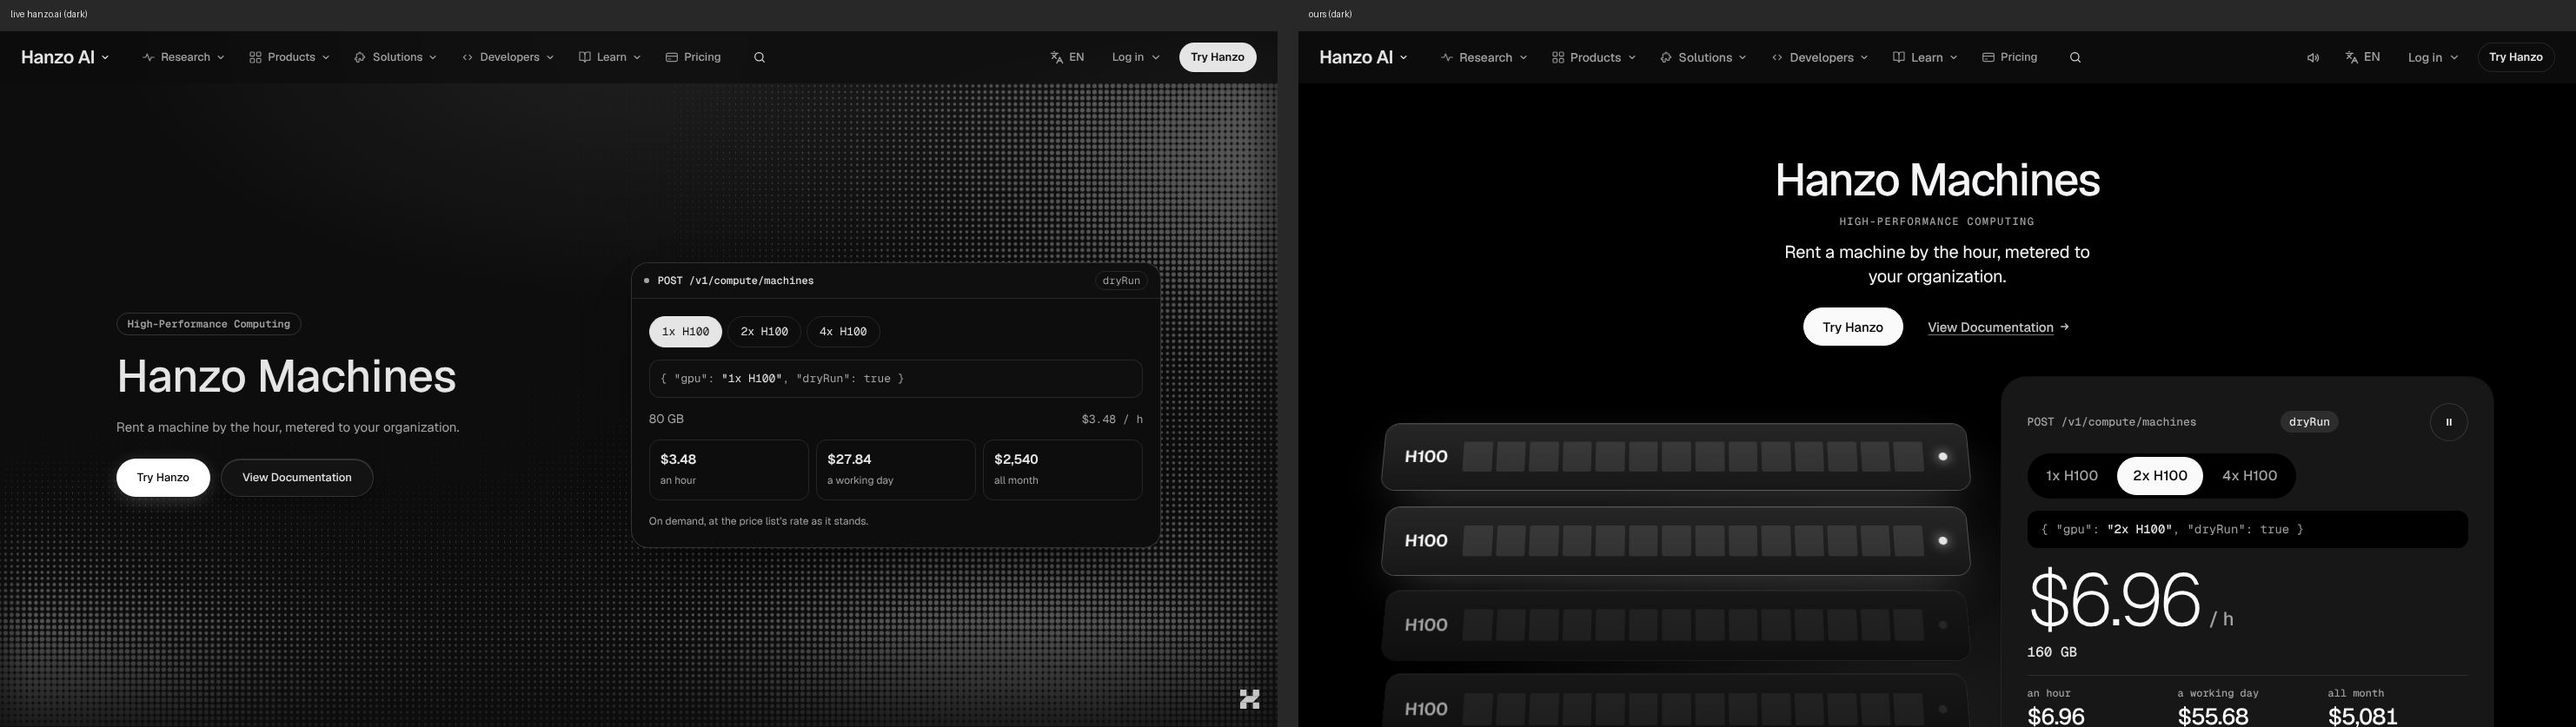
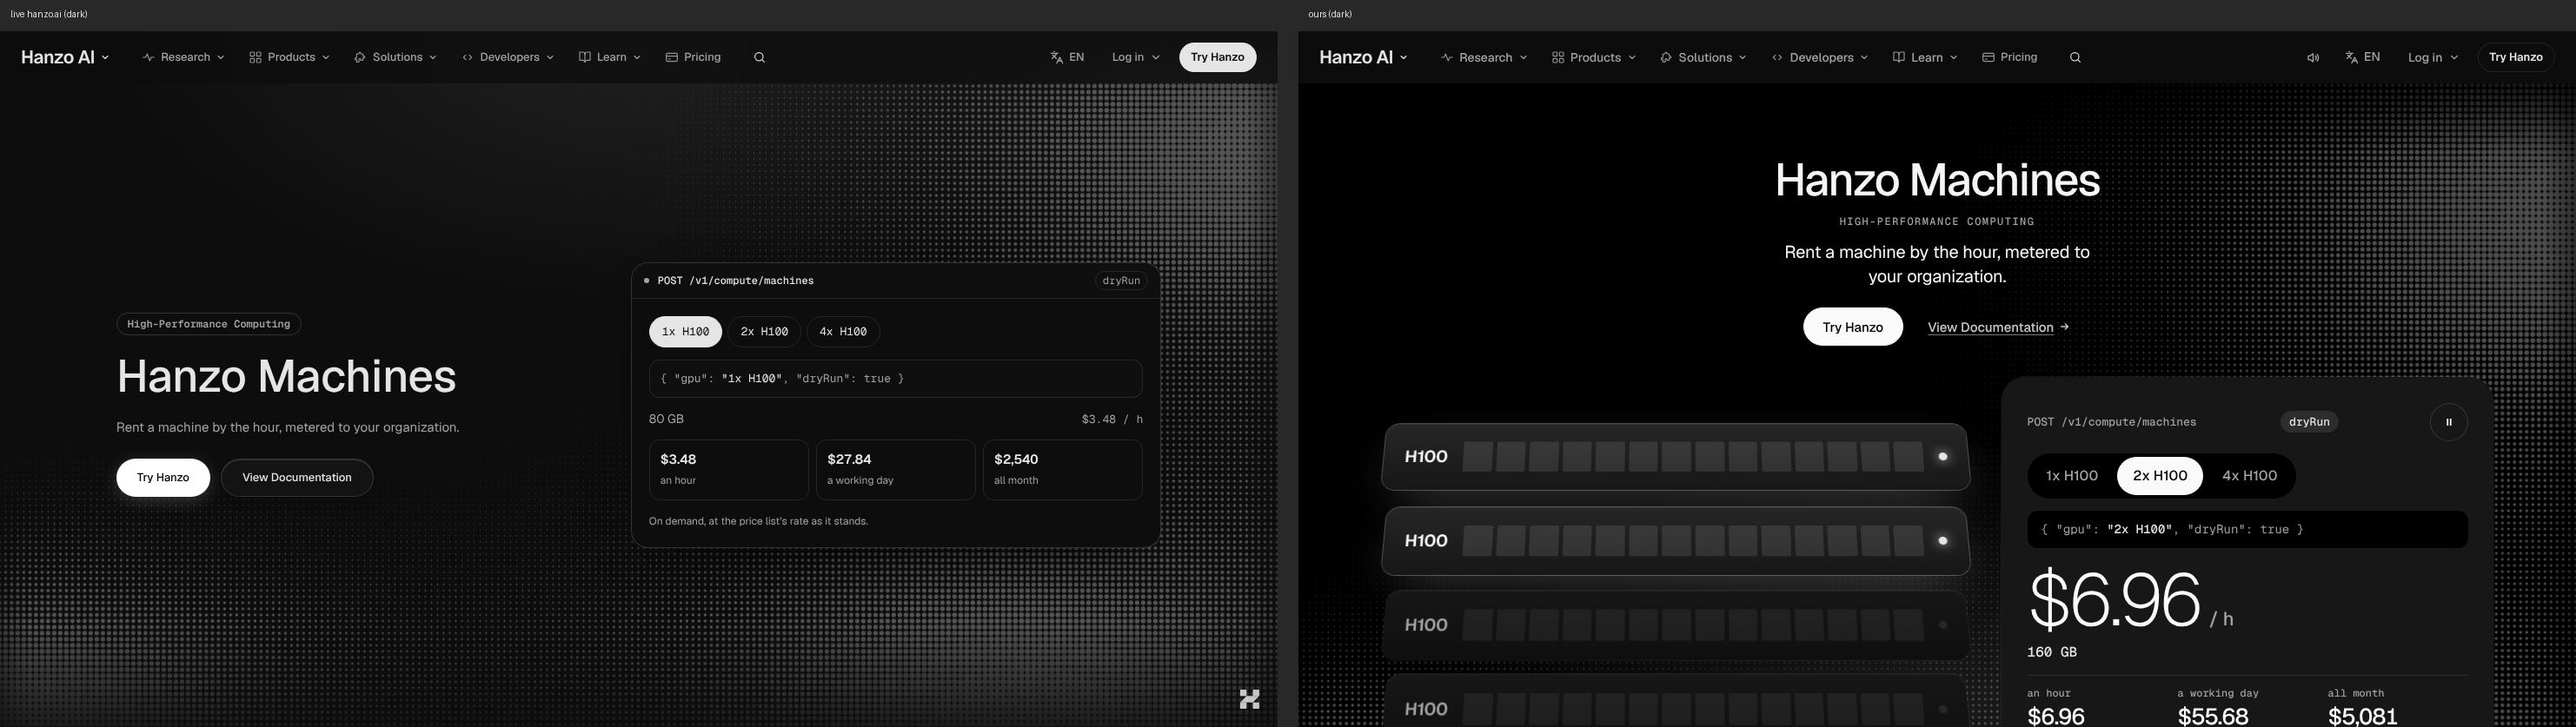
machines: dark mode — live's hero halftone (HeroDither) under the hero in dark; checks re-run (darkcheck, lightcheck OK, copycheck 0, 0 errors, no sideways scroll)
Claude-Session: https://claude.ai/code/session_01P5YBdv7StJZXmK5oNtoxtW

Changed region(s): [[0.8381, 0.1243, 1.0, 1.0], [0.4966, 0.9319, 0.5277, 1.0]]

diff --git a/components/pages/cloud/Machines.jsx b/components/pages/cloud/Machines.jsx
@@ -22,6 +22,7 @@ import { useLive } from './Frame';
 import ShipPrompt from '../../v2/ShipPrompt';
 import LivePause, { usePause } from '../../v2/LivePause';
 import MachinesZoom from './MachinesZoom';
+import HeroDither from '../HeroDither';
 import { Glitch, Snap, Curl, Dissolve } from './MachinesEnter';
 import '../../v2/v2scale.css';
 import './Machines.css';
@@ -374,6 +375,7 @@ export default function Machines() {
   return (
     <main className="v2 mc">
       <Glitch as="section" className="mc-hero v2-dark" data-room="dark">
+        <HeroDither />
         <div className="v2-wrap mc-hero-t">
           <h1 className="v2-display mc-h1 mc-gl-t" data-text="Hanzo Machines" data-morph-target="">Hanzo Machines</h1>
           <p className="v2-kick mc-cap">High-Performance Computing</p>

diff --git a/components/pages/cloud/Machines.css b/components/pages/cloud/Machines.css
@@ -489,3 +489,5 @@ html:not(.light) .mc .mc-hero, html:not(.light) .mc .mc-zsheet, html:not(.light)
 html:not(.light) .mc .mc-con-ask, html:not(.light) .mc .mc-art.a3 b:first-child, html:not(.light) .mc .mc-map[data-at='1'] .mc-map-accts span { color: var(--primary-foreground); }
 @media (hover: hover) { html:not(.light) .mc .mc-ch .pc-dots button:hover { background-color: var(--border); } }
 html:not(.light) .mc .mc-art.a1 i { background: var(--muted-foreground); }
+/* live's hero halftone (components/pages/HeroDither, dark only) fills the hero under its content */
+html:not(.light) .mc .mc-hero { position: relative; }

diff --git a/docs/review/machines.md b/docs/review/machines.md
@@ -2,7 +2,7 @@
 
 Verdict: 6/10
 Ready: 8 Nov, copycheck missing 0 of 69 (live hanzo.ai). The Paste-and-ship endpoint is one plain line under the words ("api /v1/compute/machines", as live prints it, not the shared pill split in two), and the hero quote now does what live does with the API reachable: each size (1x, 2x, 4x H100) rolls in its own VRAM, hour, working day and month from api.hanzo.ai/v1/pricing (infrastructure.gpu, the same GET live makes; build-time list as first paint and fallback), every size's quote kept in the page for screen readers. taste/unique OK; 0 console errors, no overlap at 1470x801 and 375x812 (the VRAM/80 hit is the 112px figure's glyph box).
-Dark: 8 Nov, matches live hanzo.ai in dark side by side (docs/gallery/machines/dark-*.jpg); darkcheck OK, lightcheck OK, copycheck 0. (darkcheck lists the two lit queue cells in the third use tile: ink accents that turn light in dark, as Hanzo's primary; the hero, the card's sheet and the close's rack are black rooms and stay black.)
+Dark: 8 Nov, matches live hanzo.ai in dark side by side (docs/gallery/machines/dark-*.jpg); darkcheck OK, lightcheck OK, copycheck 0. (darkcheck lists the two lit queue cells in the third use tile: ink accents that turn light in dark, as Hanzo's primary; the hero, the card's sheet and the close's rack are black rooms and stay black.) Live's hero halftone (HeroDither, ported from hanzo.ai's own Dither) sits under the hero in dark, as live draws it; bright mode unchanged.
 First complaint: "The hero's whole idea is that the price rolls in, and two times out of three it rolls in a big white dash. I'm watching a quote machine that has no quote."
 
 Walked 7 Nov 2026 on the dev server at 1470x801 and 375x812. I ran the recorder twice, because `Machines.jsx` was saved again at 16:54 in the middle of the first walk: 2x and 4x went from derived prices ($6.96, $5,081...) to em dashes. Everything below is the current build. I scrolled every stop at both sizes and checked each a/b pair for idle motion. I took 150 ms arrival frames and 100 ms frames through a pinned-chapter change. I hovered and pressed the hero ask, clicked all three size tabs (and tapped them on the phone), hovered a use tile and a related row, and did a 45-stop Tab crawl. I also checked reduced motion, JS off, 320px overflow, parity and taste.
